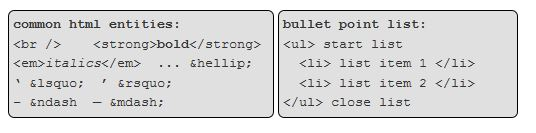
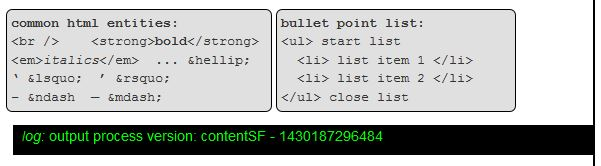
New functions
- added a console window to UI
- started implementing exception handling
- add function for getting stylesheets
- commenced new function for optional user load of stylesheet

diff --git a/js/openx_wrapper.js b/js/openx_wrapper.js
@@ -44,14 +44,10 @@ var DEVICETYPE_SF = "contentSF";
 var DEVICETYPE_IF = "contentIF";
 
 // site specific stylesheets
-var MMstyle1url = "http://www.moneymorning.com.au/wp-content/themes/shoestrap-leadgen/style.css";
-var MMstyle2url = "http://www.moneymorning.com.au/wp-content/uploads/ss-style.css?ver=1424233318";
+var style1url, style2url, style3url;
 var MMicon = "images/MM-icon.jpg";
-
-var DRstyle1url = "http://www.dailyreckoning.com.au/wp-content/themes/zenko/style.css";
-var DRstyle2url = "http://dailyreckoning.com.au/css/signupbox.css";
-var DRstyle3url = "http://www.dailyreckoning.com.au/wp-content/themes/zenko/custom.css?ver=4.1.1";
 var DRicon = "images/DR-icon.jpg";
+var USERicon = "images/userIcon.jpg";
 
 // stored version of deviceFile for edits and saves
 var siteVersion = "none";
@@ -103,7 +99,37 @@ var plaintextWindow;
 function logger(message) {
 	if (DEBUG) {
 		console.log(message);
+    document.getElementById("loggerMessage").innerHTML = "<em>log:</em> " + message;
 	}	
+}
+
+function loadMMstyles() {
+  try {
+    style1url = "http://www.moneymorning.com.au/wp-content/themes/shoestrap-leadgen/style.css";
+    style2url = "http://www.moneymorning.com.au/wp-content/uploads/ss-style.css?ver=1424233318";
+    document.write('<link rel="stylesheet" href="' + style1url + '" type="text/css" media="all" />');
+    document.write('<link rel="stylesheet" href="' + style2url + '" type="text/css" media="all" />');
+    logger("MM styles found.");
+  }
+  catch(e) {
+    logger("Error: MM stylesheets not loaded - " + e.message);
+  }
+}
+
+function loadDRstyles() {
+  try {
+    style1url = "http://www.dailyreckoning.com.au/wp-content/themes/zenko/style.css";
+    style2url = "http://dailyreckoning.com.au/css/signupbox.css";
+    style3url = "http://www.dailyreckoning.com.au/wp-content/themes/zenko/custom.css?ver=4.1.1";
+    // add third DR style, order specific
+    document.write('<link rel="stylesheet" href="' + style1url + '" type="text/css" media="all" />');
+    document.write('<link rel="stylesheet" href="' + style2url + '" type="text/css" media="all" />');
+    document.write('<link rel="stylesheet" href="' + style3url + '" type="text/css" media="all" />');
+    logger("DR styles found.");
+  }
+  catch(e) {
+    logger("Error: DR stylesheets not loaded - " + e.message);
+  }
 }
 
 function loadSiteVersion() {
@@ -138,27 +164,25 @@ function loadSiteStyles() {
   else {
     siteVersion = "NO";
   }
-	var style1url, style2url;
+
 	switch (siteVersion) {
 		case "MM":
-			style1url = MMstyle1url;
-			style2url = MMstyle2url;
+			loadMMstyles();
 			siteIcon = MMicon;
 			break;
 		case "DR":
-			style1url = DRstyle1url;
-			style2url = DRstyle2url;
+			loadDRstyles();
 			siteIcon = DRicon;
-			document.write('<link rel="stylesheet" href="' + DRstyle3url + '" type="text/css" media="all" />');
 			break;
+    case "user":
+      //TO BE IMPLEMENTED
+      siteIcon = USERicon;
+      
 		default:
-			style1url = MMstyle1url;
-			style2url = MMstyle2url;
-			siteIcon = MMicon;
+      // default is for local stylesheet?...or none
+      logger("No stylesheets loaded.");
 			break;
 	} 	
-	document.write('<link rel="stylesheet" href="' + style1url + '" type="text/css" media="all" />');
-	document.write('<link rel="stylesheet" href="' + style2url + '" type="text/css" media="all" />');
 }
 
 function storeLocal() {
@@ -168,7 +192,7 @@ function storeLocal() {
 }
 
 function resetAllLeftFields() {
-    document.getElementById("userReportCover").value = "";
+  document.getElementById("userReportCover").value = "";
 	document.getElementById("userCoverWide").value = "";
 	document.getElementById("userCoverHigh").value = "";
 	document.getElementById("userByline").value = "";
@@ -313,12 +337,19 @@ function updateDeviceContent() {
 
 function displayDeviceContent() {
 	// displays the finished device in a new window,
-	// ready for cut n paste into openX	
-	// check have all the content and deviceType	
-	// singular point of naming saveFile
+	// ready for cut n paste into openX
+  // logs a semi useless timestamp, for future versioning?
+  // print the version as human readable date/time at top of output window
+  
 	var timestamp = new Date().getTime();
-	logger(deviceType.concat(timestamp));
+	logger("output process version: " + deviceType + " - " + timestamp);
 	processDeviceToFile();
+}
+
+function loadUserStyle() {
+  //called from form, user loads direct url stylesheet
+  // to override any legacy or superseded styles.
+  
 }
 
 /************************************************************************************/

diff --git a/OpenX_wrapper.html b/OpenX_wrapper.html
@@ -40,22 +40,29 @@
 		location.reload(true);
 	}
 </script>
-<p><em> DO NOT USE Intenet Explorer OUSIDE OF A WEBSERVER </em></p>
+<p><em> DO NOT USE Internet Explorer OUSIDE OF A WEBSERVER </em></p>
 <div class="topper">
 	<div class="btnLeft">
 		<p style="font-size: 16px">1: <span style="font-size: 14; font-style: oblique;">(load website style)</span></p>
     <input id="MM" type="radio" name="siteVersionRadio" value="MM"> MM
 		-|- <input id="DR" type="radio" name="siteVersionRadio" value="DR"> DR
+    -|- <input id="US" type="radio" name="siteVersionRadio" value="US"> user
 		<br />
     <button type="button" onclick="reloadPage()">LOAD site</button>
 		<button type="button" onclick="resetAllLeftFields()">RESET form</button>
+    <br /><em>optional stylesheet loader</em><br />
+    <div style="border: 1px dashed #000000; padding: 2px; background-color: #e0e0e0; margin-bottom: 4px;">
+    <input id="userStyleSheet" type="text" name="userStyleSheet" size="20" maxlength="100" placeholder="http://">
     <br />
-    <button type="button" onclick="openHelpWindow()"> HELP!! </button>
+    <button type="button" onclick="loadUserStyle()">load style</button>
+    </div>
 	</div>
 	<div class="btnRight">
     <p style="font-size: 16px">2: <span style="font-size: 14; font-style: oblique;">(icon confirms site load)</span></p>
 		<img style="margin-left: 36px;" id="siteIconImage" src="images/defaultIcon.png" alt="site icon" width="57" height="57"/>
-	</div>
+    <br /><br />
+    <button type="button" onclick="openHelpWindow()"> HELP!! </button>
+  </div>
 	<div class="deviceControl">
     <div class="btnLeft">
      <p style="font-size: 16px">3: <span style="font-size: 14; font-style: oblique;">(choose device type, load, update)</span></p>
@@ -87,7 +94,11 @@
 &nbsp; &lt;li&gt; list item 2 &lt;/li&gt;
 &lt;/ul&gt; close list </pre>
     </div>
-    
+  </div> 
+  <div id="consoleLogger">
+    <div id="loggerMessage">
+      console logger
+    </div>
   </div>
   
 <div style="clear:both"></div>  
@@ -176,11 +187,13 @@ set copy para3...
 
 <script type="text/javascript">
 	// get stored siteVersion
-	siteVersion = localStorage.getItem("siteVersion");
-	// select it's radio button
-	document.getElementById(siteVersion).checked = true;
-	document.getElementById("siteIconImage").src = siteIcon;
-	logger("html says siteVersion: " + siteVersion);
+	if (localStorage.getItem("siteVersion") !== null) {
+    siteVersion = localStorage.getItem("siteVersion");
+  	// select it's radio button
+    document.getElementById(siteVersion).checked = true;
+    document.getElementById("siteIconImage").src = siteIcon;
+    logger("html says siteVersion: " + siteVersion);
+  }  
 </script>
 
 </body>

diff --git a/OpenX_wrapper-help.html b/OpenX_wrapper-help.html
@@ -47,20 +47,25 @@
 <h1>OpenX_Wrapper help and instructions.</h1>
 <br />
 <h2>1. Load website.</h2>
-<img style="border: 1px solid #e0e0e0;" src="images/help1.jpg" alt="help 1" width="205" height="119"/>
+<img style="border: 1px solid #e0e0e0;" src="images/help1.jpg" alt="help 1" width="223" height="186"/>
 <br />
 - select either MM (Money Morning) or DR (Daily Reckoning)<br />
+- "user" indicates an optional stylesheet has been loaded<br />
 - press button "LOAD site", this will load that site's styles<br />
 <br />
 "RESET form" button will clear all fields.<br />
-"HELP!!" opens this guide in a new window.<br />
+<br />
+Optional stylesheet loader:<br />
+- you can provide a full url to an appropriate stylesheet.<br />
+- press the "load style" button when ready.<br />
 <br />
 <hr>
 <br />
 <h2>2. Site icon.</h2>
-<img style="border: 1px solid #e0e0e0;" src="images/help2.jpg" alt="help 2" width="210" height="103"/>
+<img style="border: 1px solid #e0e0e0;" src="images/help2.jpg" alt="help 2" width="202" height="160"/>
 <br />
-- after the chosen site's stylesheets have loaded that site's will icon appear.<br /> 
+- after the chosen site's stylesheets have loaded that site's will icon appear.<br />
+- "HELP!!" opens this guide in a new window.<br /> 
 <br />
 <hr>
 <br />
@@ -100,9 +105,10 @@ n.b. clearing their form field(s), clears them from being displayed.<br />
 <br />
 <hr>
 <br />
-<h2>Entities.</h2>
-<img style="border: 1px solid #e0e0e0;" src="images/help5.jpg" alt="help 5" width="536" height="133"/>
+<h2>Entities and Log.</h2>
+<img style="border: 1px solid #e0e0e0;" src="images/help5.jpg" alt="help 5" width="601" height="166"/>
 <br />
+- the black box is a console log that will print messages for use in debug<br />
 - to help with correct appearance of text on a webpage, you must use HTML entities<br />
 - listed are some common ones currently in use with OpenX devices<br />
 - <strong>NOTE: with some exceptions, they require an opening tag and a closing tag</strong><br />

diff --git a/OpenX_wrapper_overrides.css b/OpenX_wrapper_overrides.css
@@ -69,6 +69,19 @@ pre {
   padding: 4px;
 }
 
+#consoleLogger {
+  display: block;
+  float: right;
+  padding-left: 8px;
+  margin-bottom: 4px;
+  border: 1px solid black;
+  background-color: #000000;
+  color: #00ff00;
+  width: 580px;
+  height: 30px;
+  overflow-y: scroll;
+}
+
 img#siteIconImage {
 	padding: 0;
 	margin: 0;
